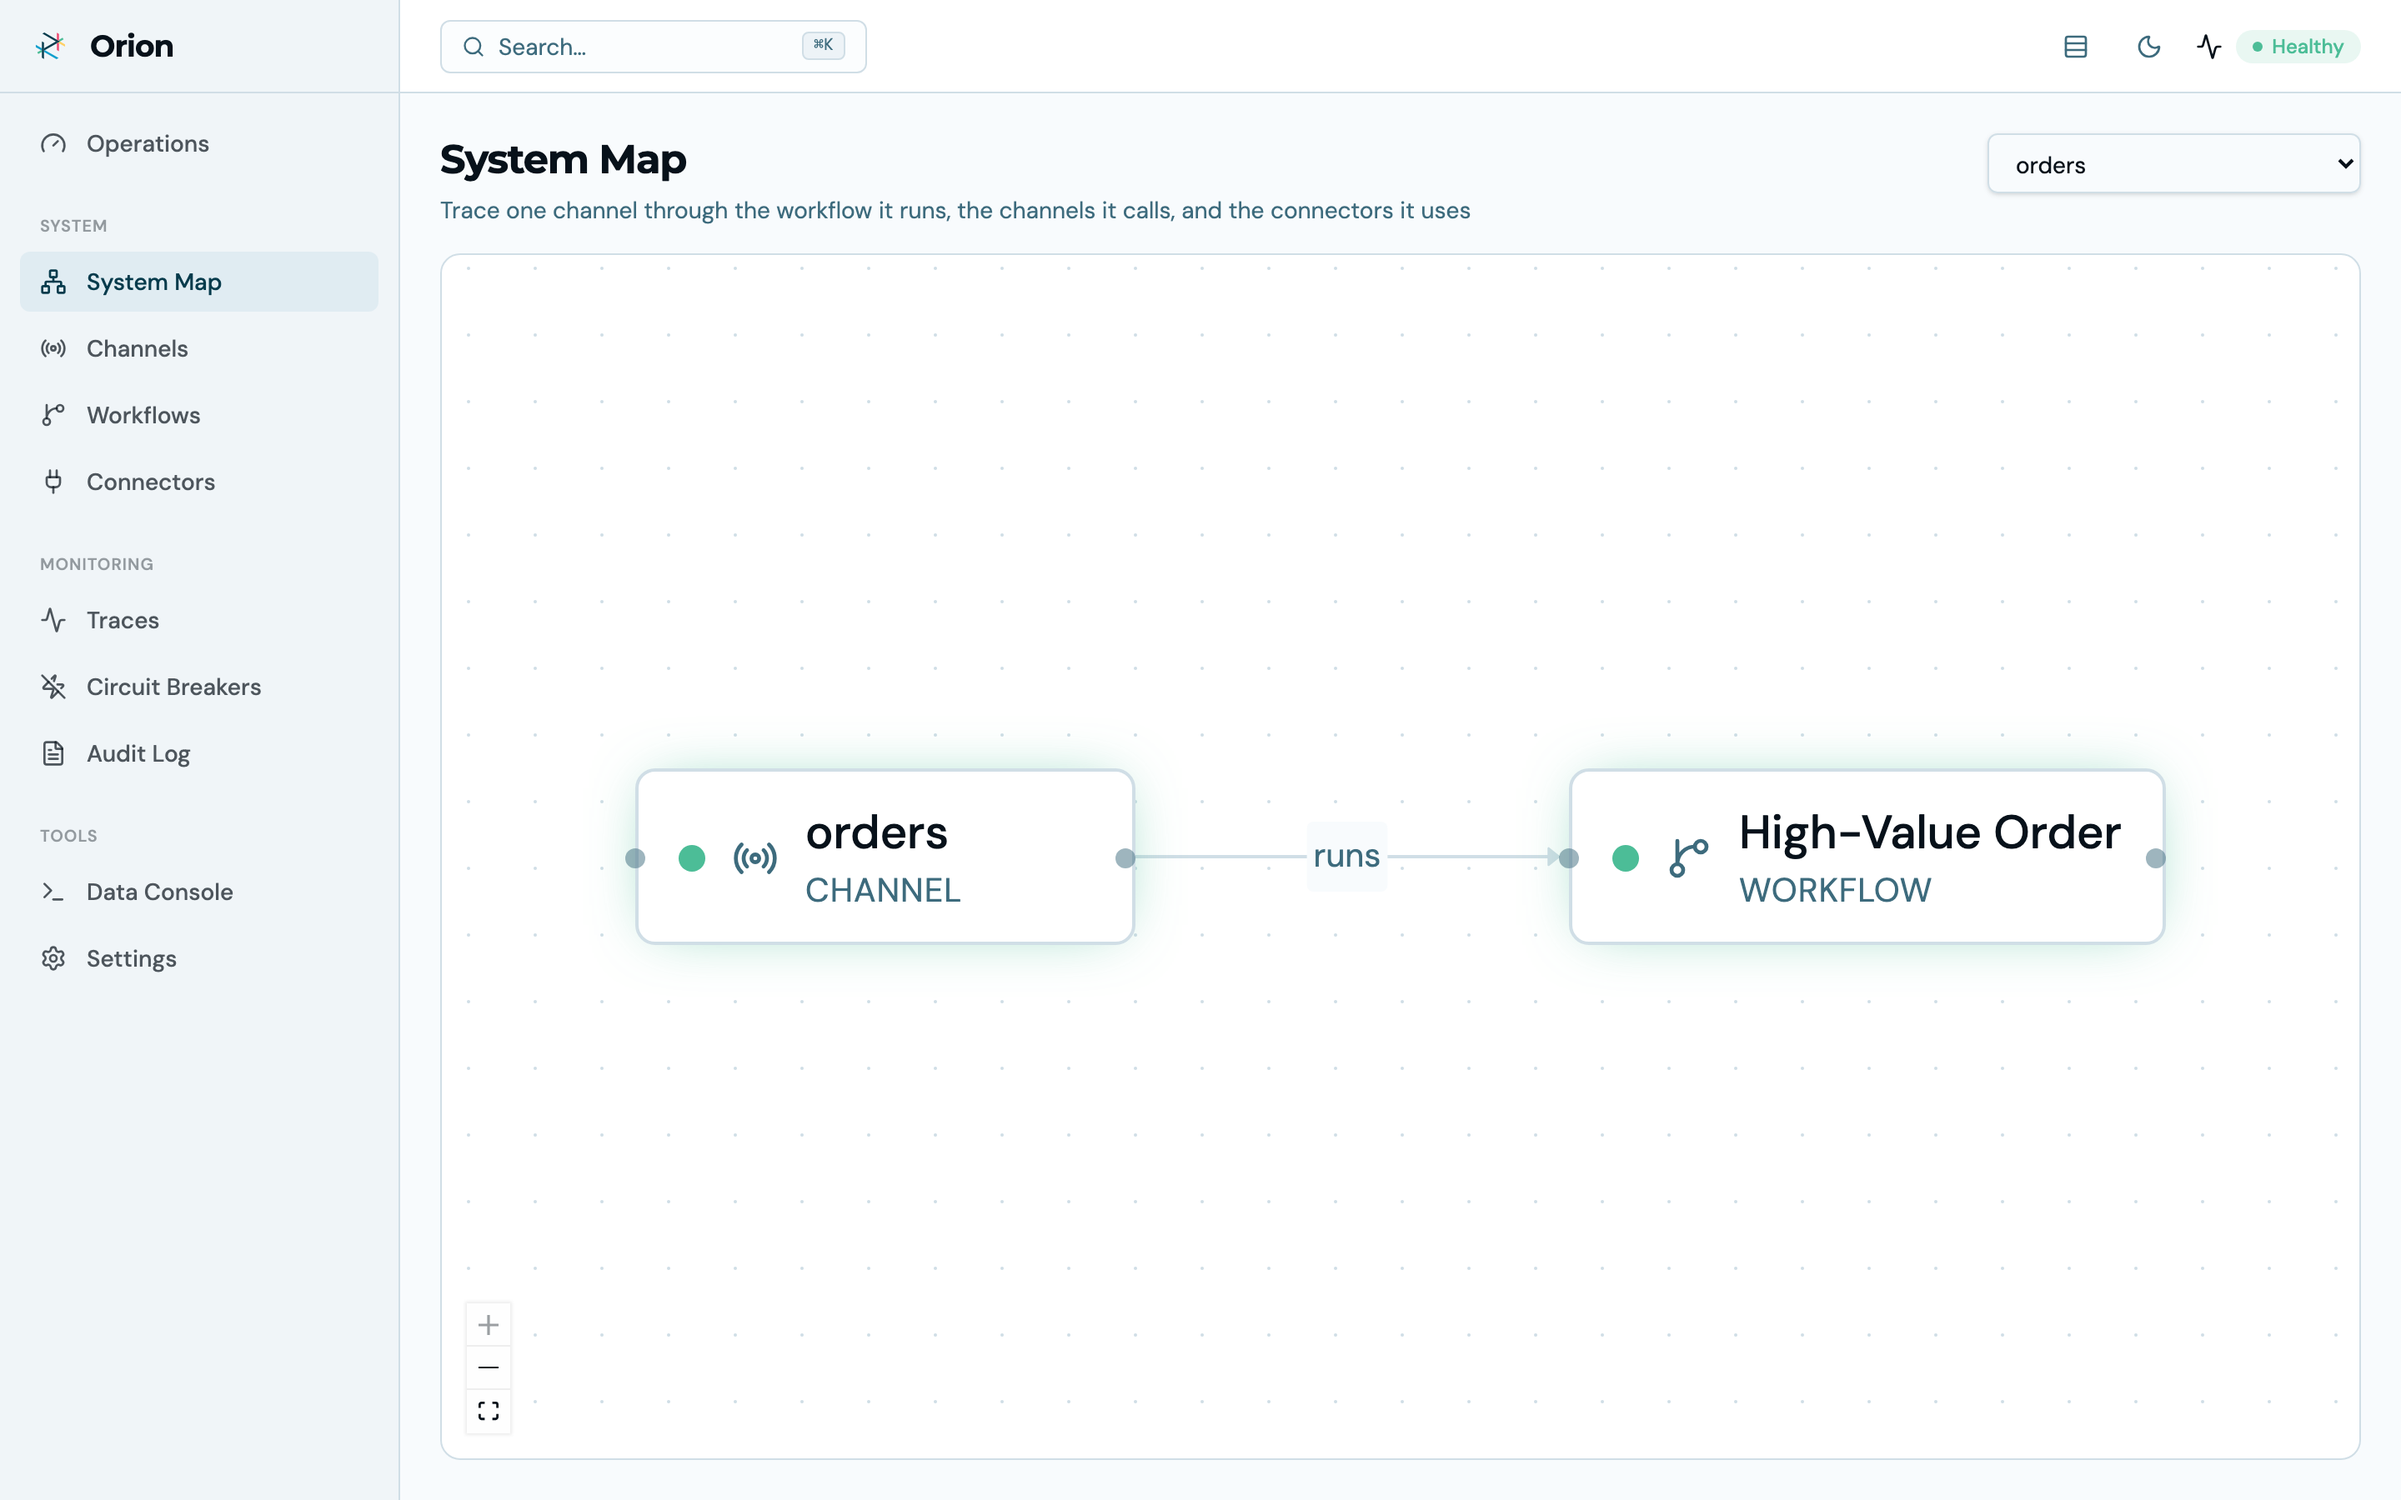
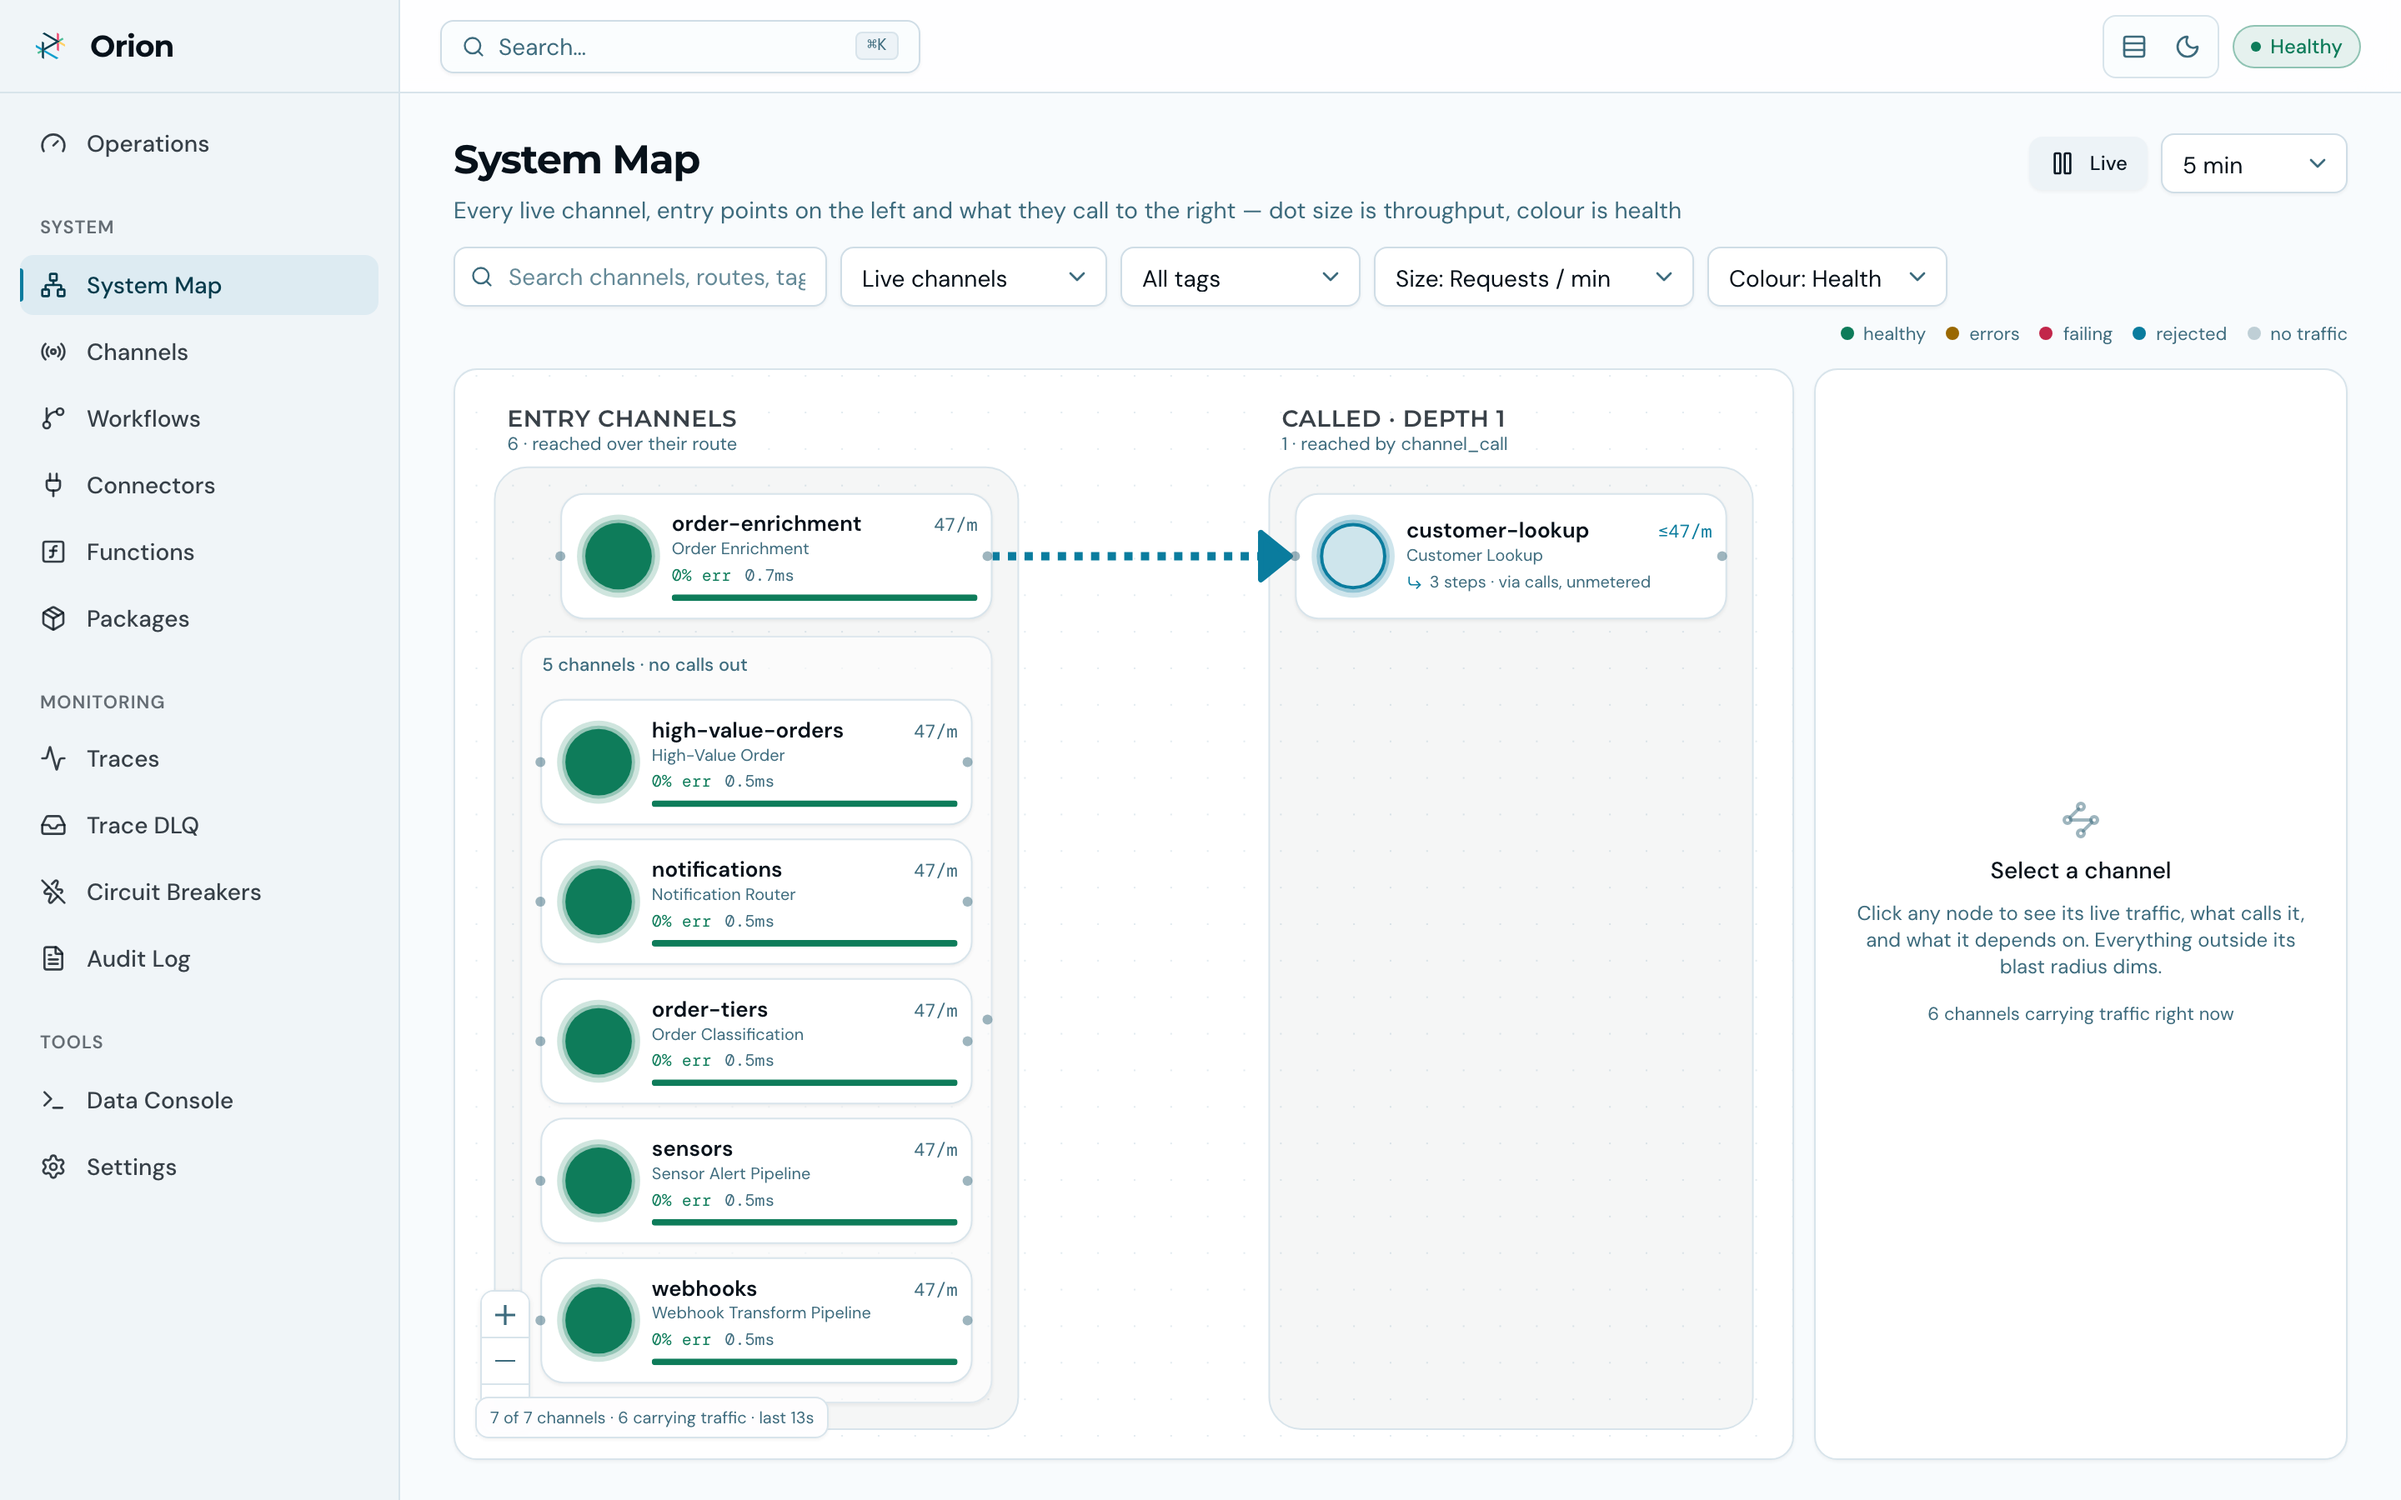
docs: regenerate README screenshots on Orion 1.3.1
All eight stills recaptured at the recording pipeline's conventions
(1440x900 @2x, light and dark) against a 1.3.1 instance seeded with the
main repo's backend-free example packages, so the System Map shot shows
the lane layout, a live call edge and a "no calls out" cluster rather than
the old two-node topology view.

README text updated to match: System Map caption, feature row and route
description; the /trace-dlq and /packages routes; Vite badge 7 -> 8.

diff --git a/README.md b/README.md
@@ -11,7 +11,7 @@
   [![License: Apache 2.0](https://img.shields.io/badge/License-Apache%202.0-blue.svg)](https://opensource.org/licenses/Apache-2.0)
   [![React](https://img.shields.io/badge/react-19-blue.svg)](https://react.dev)
   [![TypeScript](https://img.shields.io/badge/typescript-5.9-blue.svg)](https://www.typescriptlang.org)
-  [![Vite](https://img.shields.io/badge/vite-7-purple.svg)](https://vite.dev)
+  [![Vite](https://img.shields.io/badge/vite-8-purple.svg)](https://vite.dev)
 </div>
 
 <table>
@@ -26,9 +26,9 @@
     <td width="50%" align="center">
       <picture>
         <source media="(prefers-color-scheme: dark)" srcset="media/ui-system-map-dark.png">
-        <img src="media/ui-system-map-light.png" alt="System Map — a channel traced through its workflow and connectors as a topology graph">
+        <img src="media/ui-system-map-light.png" alt="System Map — every live channel laid out by role: entry channels on the left, the channels they call to the right, with live traffic lighting up the ones serving requests">
       </picture>
-      <em>System Map</em>
+      <em>System Map — live traffic across the call graph</em>
     </td>
   </tr>
   <tr>
@@ -49,10 +49,11 @@
   </tr>
 </table>
 
-All screenshots are generated from a live instance by the
+All screenshots are captured from a live instance seeded with the main repo's
+[example packages](https://github.com/GoPlasmatic/Orion/tree/main/examples/packages), following the
 [recording pipeline](https://github.com/GoPlasmatic/Orion/tree/main/docs/recordings)
-in the main repo — the ~50-second console walkthrough GIF there shows this UI taking
-a service from nothing to live without writing code.
+there — whose ~50-second console walkthrough shows this UI taking a service from
+nothing to live without writing code.
 
 ---
 
@@ -102,7 +103,7 @@ Visit `http://localhost:5173` — the dev server proxies API requests to the bac
 | Feature | Description |
 |---------|-------------|
 | **Operations** | Live KPIs at a glance — requests/min, error rate, average and p95 latency, and a "what needs attention" feed |
-| **System Map** | Topology view: trace any channel through its workflow, downstream channels, and connectors |
+| **System Map** | Every live channel on one canvas, laid out by role — entry channels, then what they call, tier by tier — with live traffic, health and latency drawn on the nodes and edges; click any channel for its blast radius |
 | **Channels** | Full lifecycle management — create, edit, version, activate/archive, bulk import, structured config editor (rate limits with key logic, cache, dedup, CORS, validation logic, tracing, Kafka transport) |
 | **Workflows** | Full authoring — create/edit drafts with a visual JSONLogic condition editor, server-side validation, dry-run testing, import/export, version compare, and canary rollout controls; visual DAG (tree/flow/graph views) |
 | **Connectors** | Create and manage HTTP, database, Kafka, cache, storage, and Elasticsearch connectors — including per-operation gates on db/es (make a connector delete-proof with one toggle) |
@@ -119,13 +120,15 @@ Visit `http://localhost:5173` — the dev server proxies API requests to the bac
 | Route | Description |
 |-------|-------------|
 | `/` | Operations dashboard — live KPIs and attention feed |
-| `/system-map` | Channel → workflow → connector topology graph |
+| `/system-map` | Live traffic map of the channel call graph |
 | `/channels`, `/channels/new`, `/channels/:id`, `/channels/:id/edit` | Channel list, creation, detail, editing |
 | `/workflows`, `/workflows/new`, `/workflows/:id`, `/workflows/:id/edit` | Workflow list, authoring, visual DAG detail with dry-run and rollout |
-| `/functions` | Workflow function reference (input schemas) |
+| `/functions` | Workflow function reference (input schemas, incl. which fields take a `{"secret": …}`) |
+| `/packages` | Promotion receipts (read-only) |
 | `/connectors`, `/connectors/new`, `/connectors/:id`, `/connectors/:id/edit` | Connector management |
 | `/circuit-breakers` | Circuit breaker status and reset |
 | `/traces`, `/traces/:id` | Execution traces and per-task drill-down |
+| `/trace-dlq` | Async dead-letter queue — inspect, requeue, purge |
 | `/audit` | Audit log |
 | `/console` | Data console for test requests (channel or REST method + path) |
 | `/settings` | Engine reload, backups, and API docs |
